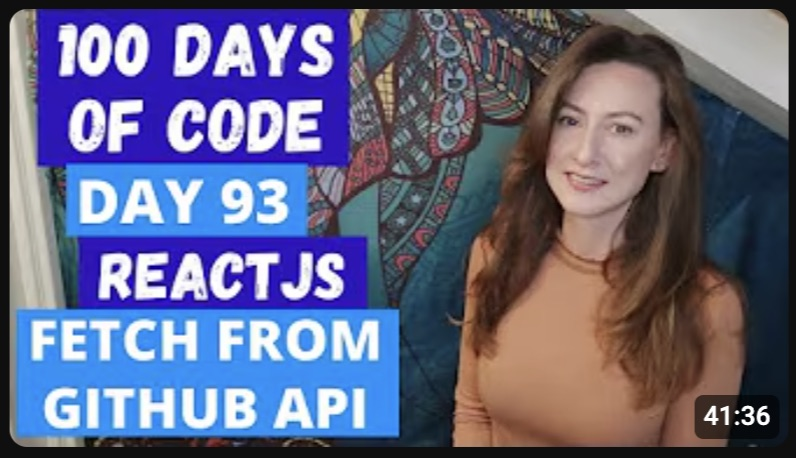
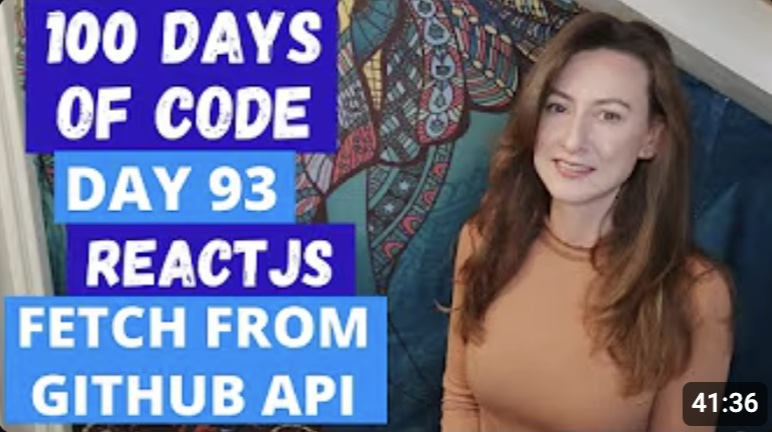
Fix thumbnail cropping: 16:9 frames, trim YouTube border

diff --git a/src/index.css b/src/index.css
@@ -126,7 +126,7 @@ p { margin: 0 0 1em; color: var(--ink-soft); }
 .link { margin-top: auto; font-weight: 600; color: var(--lavender-ink); text-decoration: none; }
 .link:hover { text-decoration: underline; }
 
-.thumb { display: block; aspect-ratio: 16 / 10; overflow: hidden; border-bottom: 1px solid var(--line); background: var(--cream); }
+.thumb { display: block; aspect-ratio: 16 / 9; overflow: hidden; border-bottom: 1px solid var(--line); background: var(--cream); }
 .thumb img { width: 100%; height: 100%; object-fit: cover; object-position: top center; display: block; transition: transform 0.4s; }
 .case-card:hover .thumb img { transform: scale(1.03); }
 
